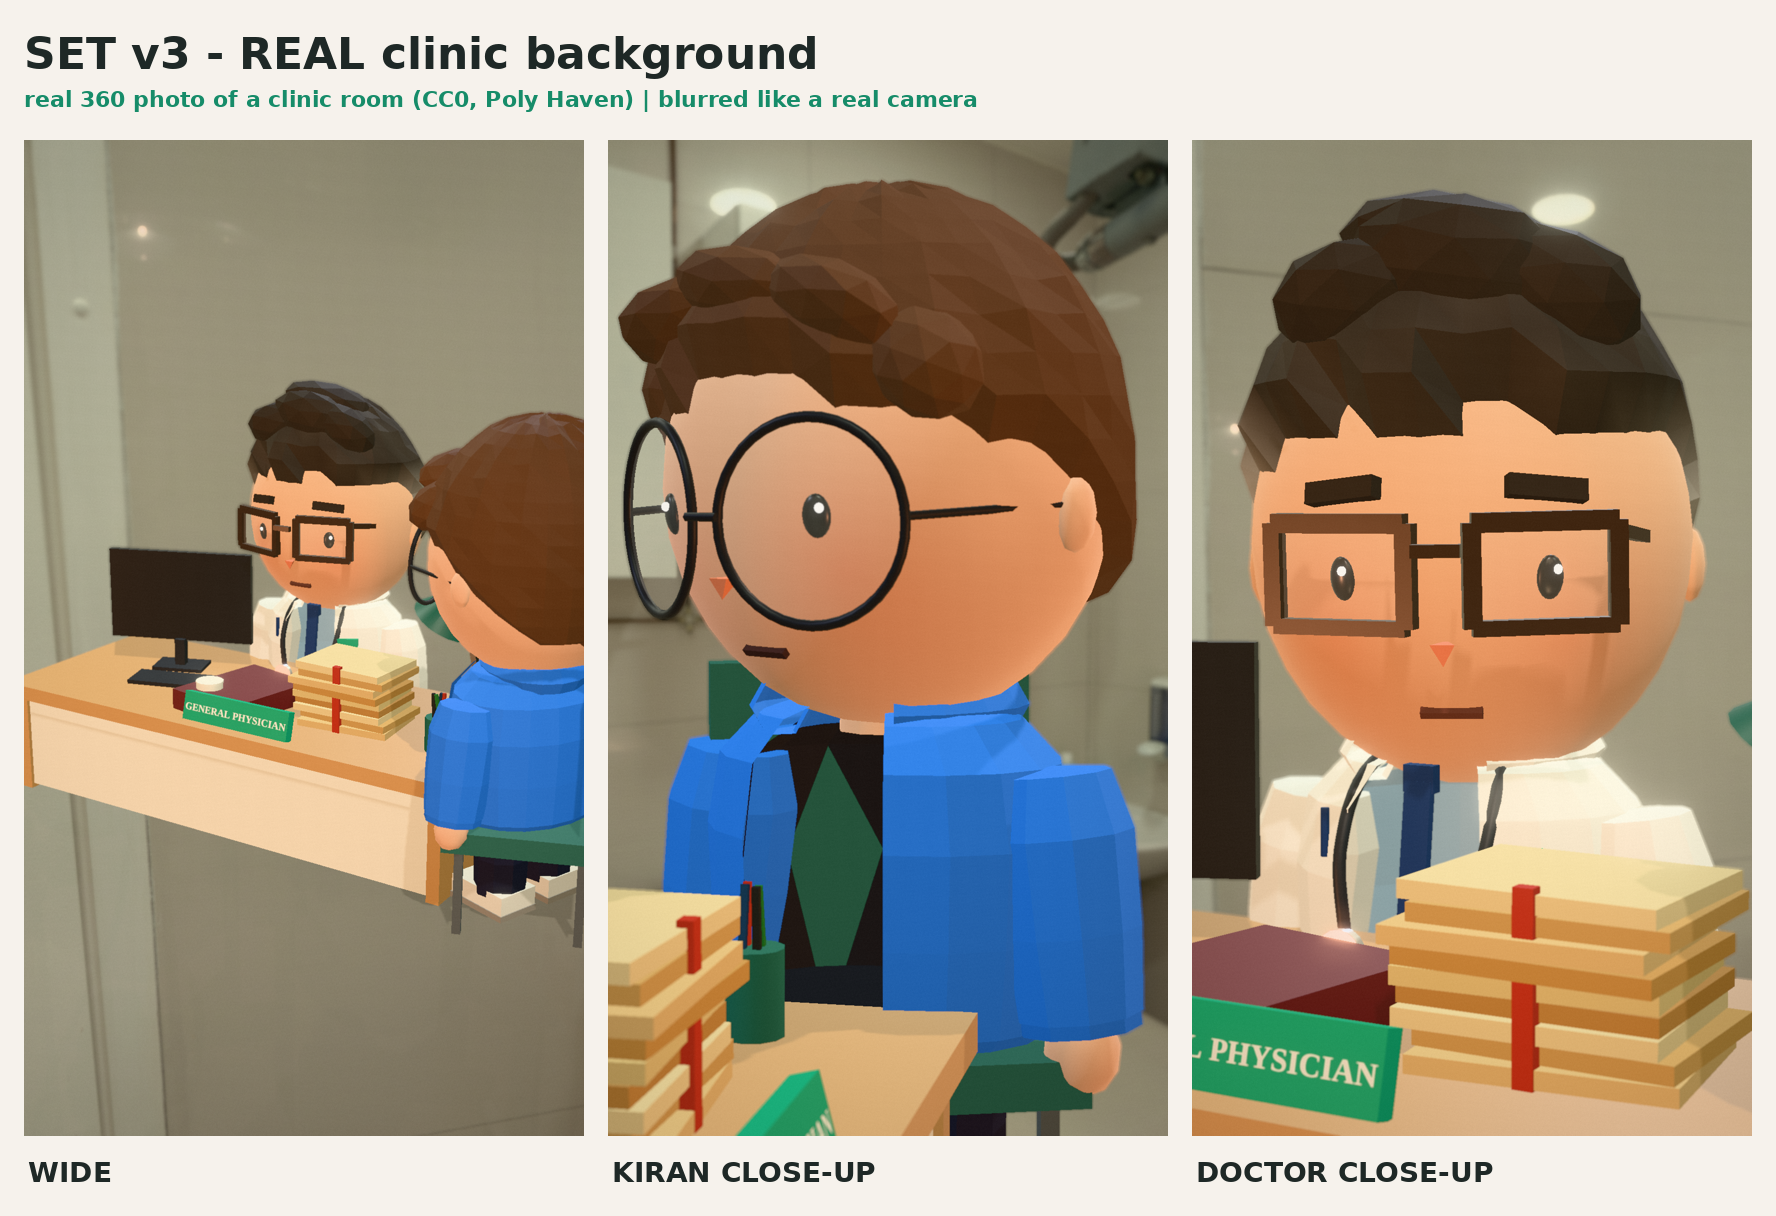
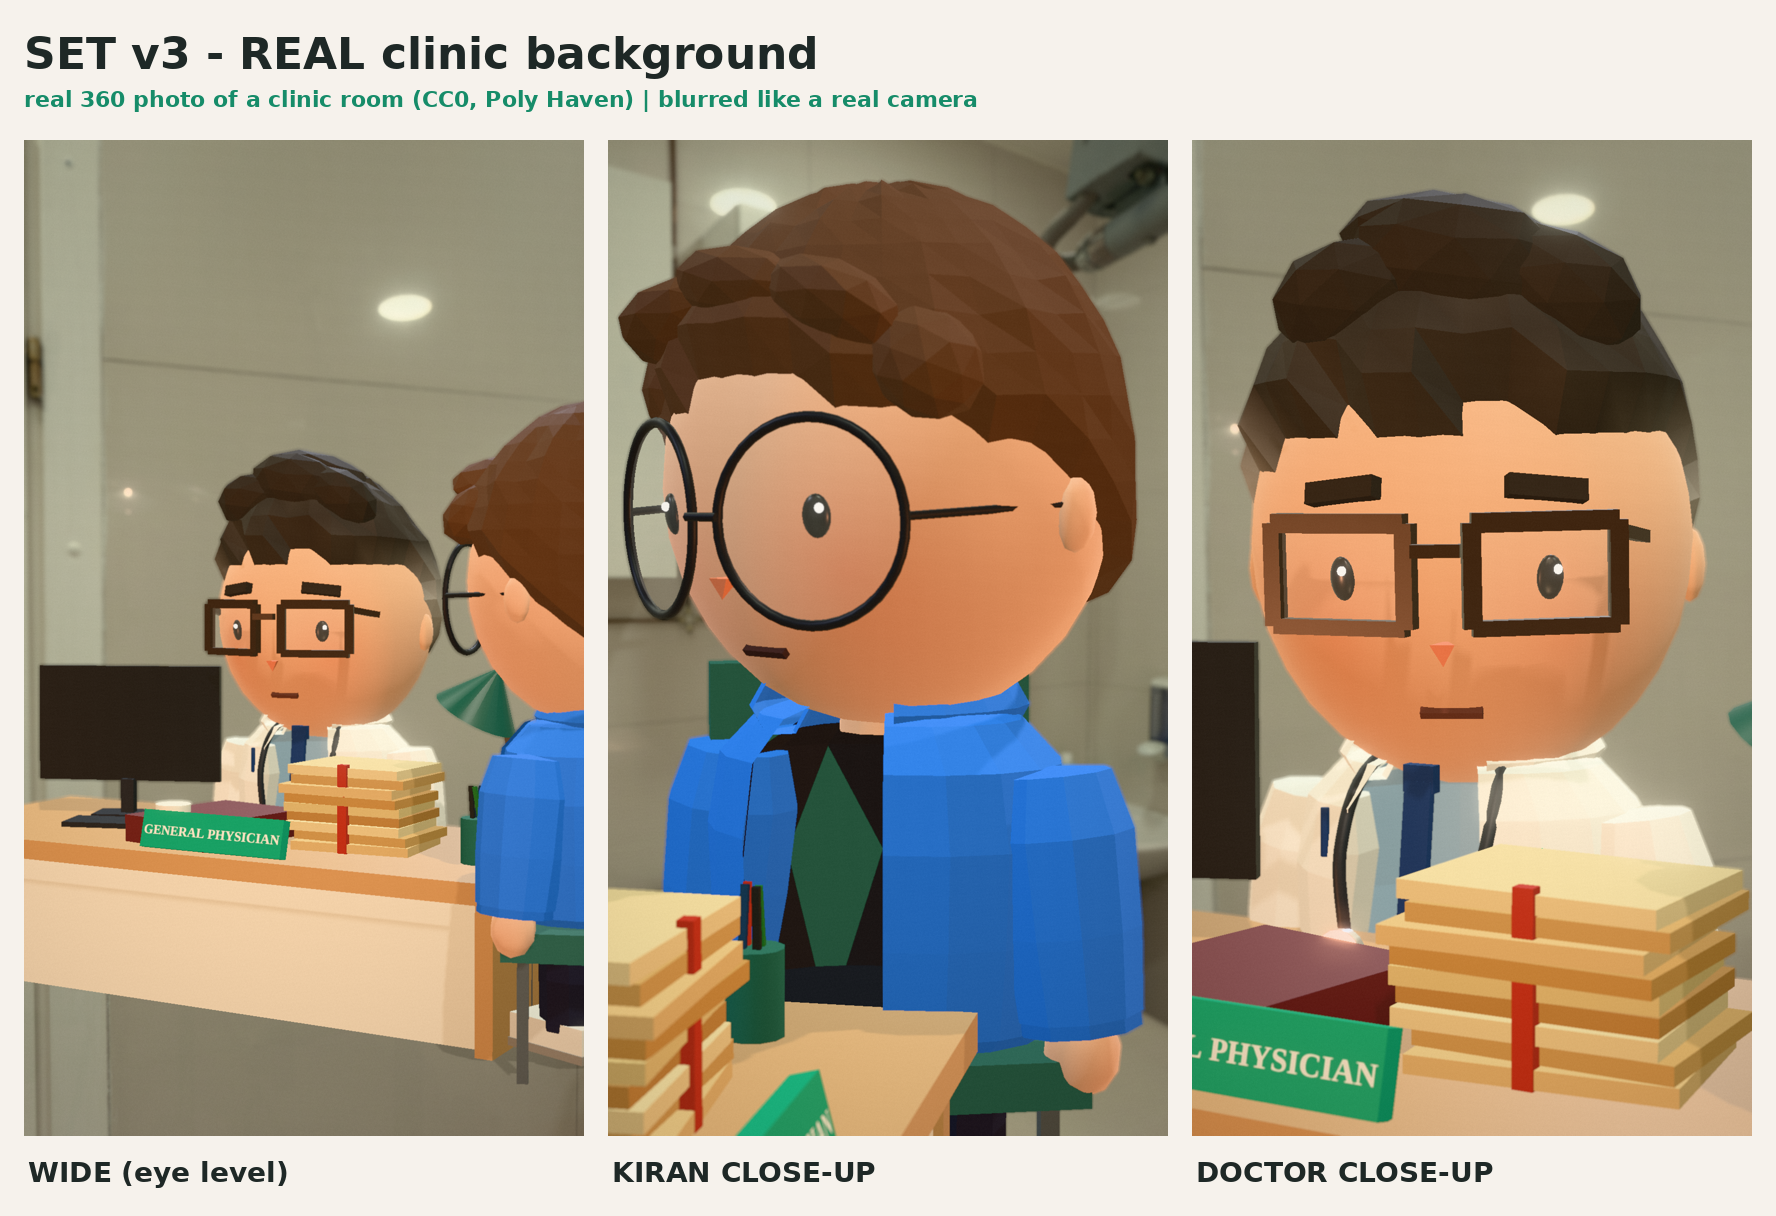
v3: eye-level wide shot on the photo plate, matte stethoscope
Claude-Session: https://claude.ai/code/session_01A9qd9KUTfaZermUqJczJfR

diff --git a/reels/avni-doctor/lookdev.html b/reels/avni-doctor/lookdev.html
@@ -150,13 +150,13 @@ const SHOTS = {
   // --- scene shots ---
   wide() {
     stage(); avni.visible = false; frontWall().visible = false;
-    shot([8.5, 6.2, 10.5], [0.8, 2.0, -1.3], 40, [2.0, 2.6, -1.0], 0.0008);
+    window.setPlate(70, 0); shot([7.6, 3.4, 10.6], [0.9, 2.95, -1.3], 34, [2.0, 2.6, -1.0], 0.0012);
   },
-  kiran_cu() {
+  kiran_cu() { window.setPlate(62, 0);
     stage(); avni.visible = false; frontWall().visible = true; kiran.getObjectByName('head').rotation.set(0.04, -0.2, 0);
     shot([-4.1, 3.3, 1.2], [3.8, 2.75, -0.5], 30, [3.8, 3.4, -0.5], 0.0035);
   },
-  doctor_cu() {
+  doctor_cu() { window.setPlate(62, 0);
     stage(); avni.visible = false; frontWall().visible = true; doctor.getObjectByName('head').rotation.set(0.04, 0.35, 0);
     shot([4.3, 3.3, 4.9], [0.4, 2.65, -2.6], 30, [0.4, 3.1, -1.7], 0.0035);
   },

diff --git a/characters/doctor/character.js b/characters/doctor/character.js
@@ -170,7 +170,7 @@ export function createDoctor(opts = {}) {
     new THREE.Vector3(0.3, 1.72, 0.64),
   ]);
   torso.add(new THREE.Mesh(new THREE.TubeGeometry(curve, 48, 0.03, 8), tubeMat));
-  const chest = new THREE.Mesh(new THREE.CylinderGeometry(0.11, 0.11, 0.05, 16), new THREE.MeshStandardMaterial({ color: P.metal, roughness: 0.25, metalness: 0.8 }));
+  const chest = new THREE.Mesh(new THREE.CylinderGeometry(0.11, 0.11, 0.05, 16), new THREE.MeshStandardMaterial({ color: P.metal, roughness: 0.45, metalness: 0.3 }));
   chest.position.set(-0.3, 1.5, 0.66); chest.rotation.x = Math.PI / 2; torso.add(chest);
 
   root.traverse((o) => { if (o.isMesh && o.parent?.name !== 'glasses') { o.castShadow = true; o.receiveShadow = true; } });
